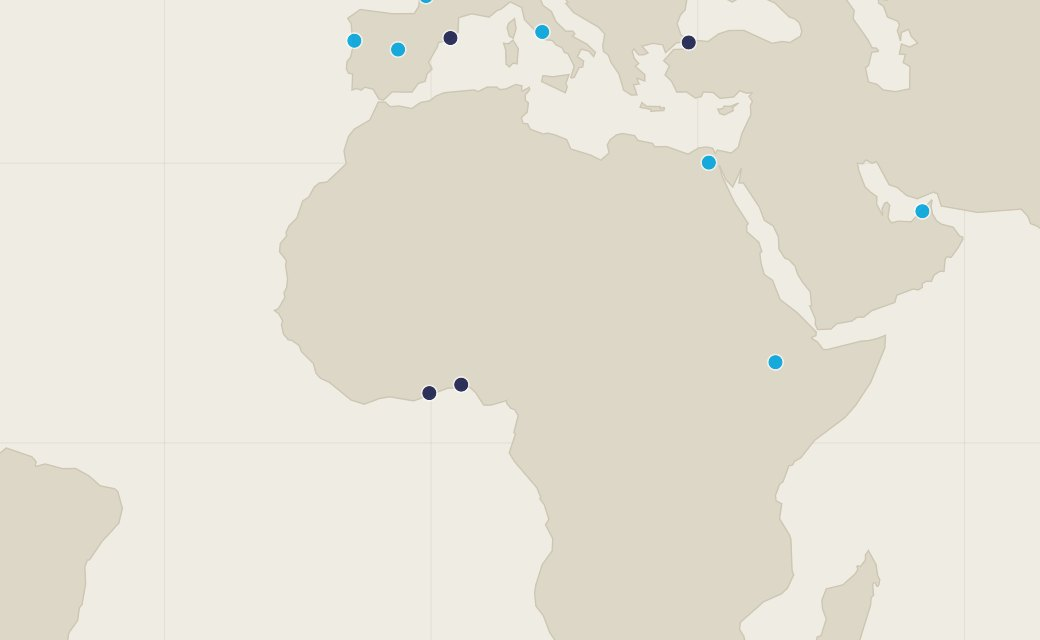
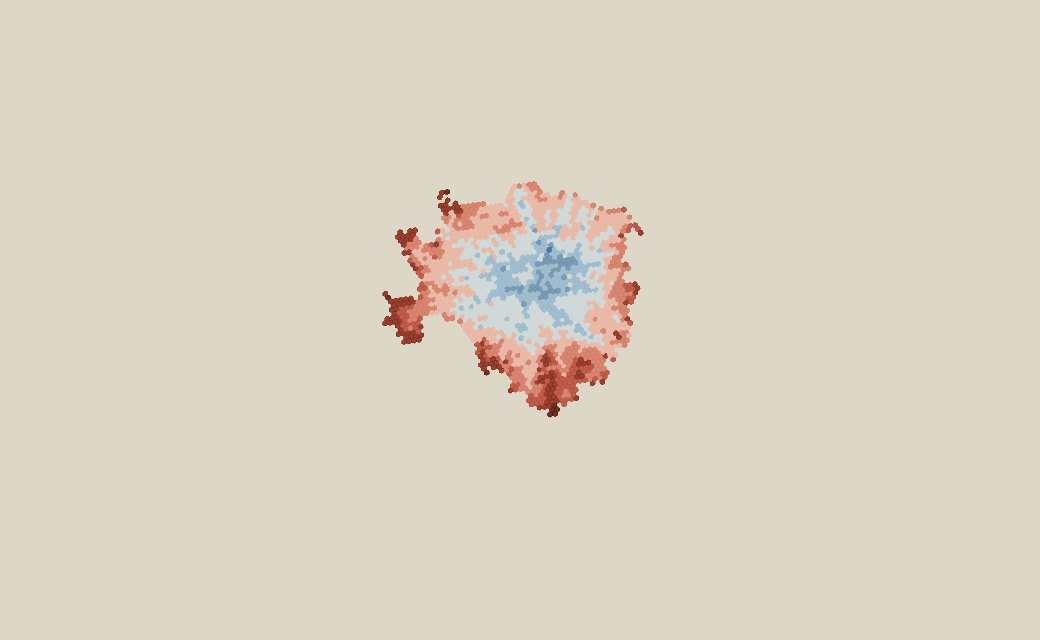
Cover the combined viewer in the suites; bring the docs up to date
smoke gains the Milan routes and a targeted combined-viewer block that
asserts provenance (the 7,637-cell union figure the seed cannot produce),
the honest P.O.V. mask count, four enabled layers, and the CityChrone
hourly layer rendering with its state in the URL. Card stills reshoot
from the new views — 15minCity from Milan, CityChrone from the combined
viewer's layer (with a clip shift to keep the core mask in frame).
CLAUDE.md, README.md and public/data/README.md now describe the shipped
state: Milan harmonised and verified by H3 index, the atlas catalogue
section, the hourly CityChrone contract, and the retired letter schema.

All three suites pass: test:data, smoke, smoke:published.

Claude-Session: https://claude.ai/code/session_01UVTyh7ByqiS6cEYYgVPMXa

diff --git a/CLAUDE.md b/CLAUDE.md
@@ -36,7 +36,9 @@ src/data/catalogue.js         parsing + normalising it
 src/data/sources.js           the provider: where data comes from
 src/data/adapters.js          published files → the shapes the UI consumes
 src/data/useAtlasData.js      React bindings (coverage, profile, city pages)
+src/data/useAtlasView.js      React bindings for the combined viewer
 src/workers/useCityMesh.js    published-first, seed fallback
+scripts/build-atlas.mjs       offline: joins platform files → atlas/ union meshes
 ```
 
 Anything the catalogue does not list falls back to generated seed data
@@ -48,37 +50,39 @@ caller changes.
 
 Adding a city is a file copy plus a catalogue entry. That is the whole design.
 
-## The grids — read this before building the unified viewer
+## The grids — read this before touching the combined viewer
 
 **Target state: one standard H3 grid per city, shared by every platform.**
 Harmonisation happens **offline**, in the export pipeline, not in the app.
-Milan is the first city being exported this way, across all four platforms.
 The app's job is to render whatever grid the catalogue describes — it does not
 reproject, resample or reconcile anything.
 
-The currently published data is the legacy state, and Rome shows what that
-costs. Measured cell by cell:
+**Milan is harmonised, and the combined viewer ships.** Verified by H3 index
+(not centroid rounding — `scripts/build-atlas.mjs` refuses any centroid more
+than 10 m off an H3 r9 cell centre): all four platforms sit on one grid, with
+nested masks — 15minCity covers 7,498 cells (the whole metro), Car Dependency
+and CityChrone an *identical* 1,741, P.O.V. a strict subset at 1,636.
+`build-atlas.mjs` joins them into `public/data/atlas/milan.geojson` (7,637
+union cells) and `/atlas/:cityId` repaints that one mesh per layer. Rerun
+`npm run build:atlas` after changing any Milan file — the union is derived,
+and `test:data` fails if it drifts from the per-platform files.
+
+Rome is the legacy state and shows what it costs. Measured cell by cell:
 
 | Platform | Rome cells | Grid |
 | --- | --- | --- |
 | P.O.V. | 8,089 | same H3 grid as CDI — 99.8% of its cells sit on a CDI cell |
 | Car Dependency | 11,409 | same grid, wider urban mask |
-| 15minCity | 11,879 | **a different tiling** — ~8% overlap, i.e. chance |
+| 15minCity (retired) | 11,879 | **a different tiling** — ~8% overlap, i.e. chance |
 
-So P.O.V. and CDI already share a grid: P.O.V. is a subset of CDI's cells, a
-tighter mask over identical hexagons. Those two can share one loaded mesh and
-switch by repainting. 15minCity's legacy meshes cannot — switching to them
-means swapping the mesh.
+**Both paths live in `src/pages/AtlasCityPage.jsx` from day one.** A city with
+an `atlas` catalogue entry loads one union mesh and repaints; a city without
+one swaps per-platform meshes. Do not assume one city implies one mesh; ask
+the catalogue.
 
-**What this means for the viewer.** Build it so that cities on the harmonised
-grid are the fast path — load one mesh, repaint per layer — and keep
-mesh-swapping as the fallback for legacy cities. Do not assume one city implies
-one mesh; ask the catalogue. Two cities will behave differently at the same
-time for a while, so the switcher has to handle both from day one rather than
-being retrofitted once Milan lands.
-
-A practical check when new data arrives: compare cell centroids between two
-platforms for the same city at 3 decimal places (~100 m). Above ~99% means one
+A practical check when new data arrives: map both platforms' cell centroids to
+H3 at the claimed resolution and compare the sets (`build-atlas.mjs` does this
+with a hard 10 m tolerance). Above ~99% overlap of the tighter mask means one
 grid; single digits means two.
 
 **The `cell` field is per-city and must stay honest.** `h3Resolution` is
@@ -102,9 +106,16 @@ and was wrong.
 - **The cartograms are population-scaled.** Cells sit in true positions; their
   *area* encodes population. Cell geometry therefore cannot be measured from
   the file and comes from the catalogue's `cell` field.
-- **15minCity's letter codes**: the legacy `script.php` contains two conflicting
-  letter→category tables. The live one is in `src/data/fifteen.js` (`d` is
-  Healthcare, not Supplies). Do not take a letter's meaning from that file.
+- **15minCity's letter codes are retired.** The harmonised exports key
+  measures with full words (`education_foot`, `proximity_time_bicycle`);
+  `src/data/fifteen.js` holds the live category list. The legacy `script.php`
+  contains two conflicting letter→category tables — if an old letter-keyed
+  file ever resurfaces, do not take a letter's meaning from that file.
+- **CityChrone's scores carry no verified unit conversion.** `v_score` is
+  described as km/h-like and labelled that way after the upstream site;
+  `s_score` is a weighted count of reachable people and is called a score,
+  never a headcount. Hexcover `coord` is `[lat, lon]` — the one published
+  file on that order.
 
 ## Traps that have already cost time
 
@@ -137,10 +148,13 @@ npm run smoke              # every route in a real browser
 npm run smoke:published    # stages a dataset, asserts it is read instead of seed
 ```
 
-`test:data` runs the real adapters over all 41 datasets and checks shares sum
-to 100, no CDI outside [−1, +1], every 15minCity category × mode present, and
-that Rome still reports the figures the copy quotes. Run it after any data
-change — it catches in seconds what the browser suites take minutes to reach.
+`test:data` runs the real adapters over every published dataset (all 24
+CityChrone hours included) and checks shares sum to 100, no CDI outside
+[−1, +1], every 15minCity category × mode present, that Rome still reports
+the figures the copy quotes, and that each `atlas/` union mesh reconciles —
+same counts, same shares, same weighted CDI — with the per-platform files it
+was built from. Run it after any data change — it catches in seconds what the
+browser suites take minutes to reach.
 
 Playwright is deliberately **not** a dependency; CI installs it on the fly.
 Locally: `PLAYWRIGHT_CHROMIUM_PATH=/opt/pw-browsers/chromium`.
@@ -161,6 +175,7 @@ avoids guessing rather than defaulting to masculine forms.
 
 ```bash
 npm run build:data -- --pov ../accessibility-pov --cdi ../CDI --fifteen ../15mincity
+npm run build:atlas        # union meshes + fifteen/citychrone catalogue entries
 npm run shoot:previews     # platform-card stills, from the running site
 ```
 
@@ -171,24 +186,21 @@ different owner.
 
 ## CityChrone
 
-The fourth platform, and the one with the least built. It has:
+The fourth platform, published for Milan and rendered **only through the
+combined viewer** — it has no `/platforms/citychrone/:cityId` page; its
+landing map routes city clicks to `/atlas/:cityId?layer=citychrone`.
 
-- **A paper** — Biazzo, Monechi & Loreto, *General scores for accessibility and
-  inequality measures in urban areas*, R. Soc. Open Sci. 6(8) 190979 (2019),
-  `doi:10.1098/rsos.190979`. It is the isochrone-based scoring method, so it is
-  tagged to this platform on the Research page.
-- **No published data.** `published: false`, no `previewCity`, no city page.
-  Its home-page card art is a still of the world coverage map because there is
-  no city view to shoot.
-- **Data in preparation**: a single city, isochrones on an H3 grid.
-
-When that lands it is the same path as any other platform — convert in
-`scripts/build-data.mjs`, add catalogue entries, flip `published: true`, set
-`previewCity`, and shoot a card still. Two things will be new: isochrones are a
-*travel-time surface* rather than a per-cell classification or a bounded index,
-so it needs its own adapter and its own legend; and if it ships on the standard
-H3 grid it can share a mesh with whatever else exists for that city, which
-makes it the natural first test of the shared-grid path.
+- **The paper** — Biazzo, Monechi & Loreto, *General scores for accessibility
+  and inequality measures in urban areas*, R. Soc. Open Sci. 6(8) 190979
+  (2019), `doi:10.1098/rsos.190979` — defines both scores and the isochrone
+  method; it is tagged to this platform on the Research page.
+- **The published form is hourly**: 24 hexcover FeatureCollections (per-cell
+  `v_score`/`s_score`) plus 24 `times*.npy` matrices (uint8 minutes, row =
+  origin cell). The catalogue's `hourly` entry describes them as `{hh}` path
+  templates; hourly values are joined onto the mesh as MapLibre feature-state
+  at runtime, never baked into a GeoJSON.
+- Its card still is shot from the combined viewer's CityChrone layer
+  (`scripts/shoot-previews.mjs`).
 
 ## Open, and needing the lab rather than more code
 - **The Italian is a first draft** and wants a native review.

diff --git a/public/data/README.md b/public/data/README.md
@@ -11,14 +11,14 @@ entry, not a code change.
 | `index.json`         | The **catalogue** — the one file that decides whether the Atlas draws measurements or seed data. |
 | `pov/`               | Accessibility P.O.V. — 18 cities, one GeoJSON each, plus `coverage.geojson`. Measured. |
 | `cardep/`            | Car Dependency Index — 22 city datasets (20 cities plus a Paris metro-area and a Rome Metro D scenario), plus `coverage.geojson`. Measured. |
-| `fifteen/`           | 15minCity — Rome, 20 measures per cell (10 service categories × foot/bike) plus their difference against the ideal-city scenario. Measured. |
+| `fifteen/`           | 15minCity — Milan on the standard H3 grid, 20 measures per cell (10 service categories × foot/bicycle). Measured. |
+| `citychrone/`        | CityChrone — Milan, 24 hourly `hexcoverNN.json` score files plus 24 `timesNN.npy` travel-time matrices. Measured. |
+| `atlas/`             | The combined viewer's union meshes — one GeoJSON per harmonised city, every platform's values on the same H3 cells. Derived offline by `scripts/build-atlas.mjs`. |
 | `world-land.geojson` | Natural Earth 110m land polygons, simplified to 2 dp. Draws the paper basemap so the Atlas needs no tile server. Public domain. |
 
-**CityChrone is not published yet.** It still renders seed data generated in
-the browser — deterministic and plausible, but not measurement (see
-`src/data/cities.js` and `src/data/mesh.js`). The UI labels it as illustrative
-rather than presenting it as measured. 15minCity is published for Rome only;
-its other cities live in the legacy site's database.
+15minCity's legacy Rome export (letter-keyed, non-H3) has been retired; its
+other cities live in the legacy site's database until they are re-exported on
+the standard grid.
 
 Regenerate everything under `pov/` and `cardep/` from the upstream repositories
 with:
@@ -27,7 +27,14 @@ with:
 npm run build:data -- --pov ../accessibility-pov --cdi ../CDI --fifteen ../15mincity
 ```
 
-It prints the counts `src/data/home.js` and `src/data/platforms.js` quote, so
+Rebuild the union meshes and the fifteen/citychrone catalogue entries from the
+files already in this directory with:
+
+```bash
+npm run build:atlas
+```
+
+Both print the counts `src/data/home.js` and `src/data/platforms.js` quote, so
 those stay in step with the data rather than drifting from it.
 
 ## The catalogue
@@ -60,6 +67,24 @@ site works on a fresh checkout and picks up real outputs one city at a time.
 
 Platform keys are the `id` values in `src/data/platforms.js`: `fifteen`,
 `citychrone`, `cardep`, `pov`.
+
+Two additions beyond the per-platform lists:
+
+- **Hourly datasets** (CityChrone): a city carries `"hourly"` instead of a
+  single `dataset` — `{ "hours": 24, "cells": 1741, "hexcover":
+  "citychrone/milan/hexcover{hh}.json", "times":
+  "citychrone/milan/times{hh}.npy" }`, with `{hh}` standing for the
+  zero-padded hour. Each hexcover is a FeatureCollection with per-cell
+  `new_id`, `pop`, `v_score`, `s_score` (and `coord` as `[lat, lon]` — the one
+  upstream file on that order); each `times` file is a NumPy uint8 matrix of
+  minutes, `cells × cells`, row = origin `new_id`.
+- **The `atlas` section** (top level, beside `platforms`) lists cities with a
+  harmonised union mesh for the combined viewer, each with a `dataset`
+  pointing under `atlas/` and a `layers` array naming the platforms it
+  carries. A city absent here still gets a combined view — the viewer swaps
+  per-platform meshes instead of repainting one. Union meshes are **derived**:
+  regenerate them with `npm run build:atlas` after changing any Milan file,
+  and `npm run test:data` reconciles them against the per-platform files.
 
 - **`center` is `[lon, lat]`**, matching GeoJSON and MapLibre. The upstream CDI
   `index.json` uses `[lat, lon]` — flipping it is the exporter's job.
@@ -139,29 +164,26 @@ Values: `o_score_pt`, `o_score_car`, `CDI` (−1 PT-favoured → +1 car-dependen
 
 ### 15minCity
 
-The legacy site stores one `hexes.geojson` per city, carrying 20 accessibility
-metrics — 10 service categories × 2 travel modes, in minutes:
+The harmonised exports (Milan onward) key each measure as
+`<category>_<mode>`, in minutes, with full words: categories
+`proximity_time` (the average across all services), `outdoor`, `education`,
+`supplies`, `restaurant`, `transport`, `culture`, `physical`, `services`,
+`healthcare`; modes `foot` and `bicycle`. Each cell also carries
+`centroid_lon`/`centroid_lat`, `radius`, `population`, and `internal_id` —
+the cell's H3 index as a decimal integer (resolution 9).
 
-| Key | Category | | Suffix | Mode |
-| --- | -------- | - | ------ | ---- |
-| `a` | average accessibility | | `_f` | foot |
-| `b` | cultural activities | | `_b` | bike |
-| `c` | learning | | | |
-| `d` | healthcare | | | |
-| `e` | outdoor activities | | | |
-| `f` | physical exercise | | | |
-| `g` | eating | | | |
-| `h` | services | | | |
-| `i` | supplies | | | |
-| `l` | moving | | | |
+The legacy letter scheme (`a_f`, with `d_*` ideal-city differences) and its
+two conflicting letter→category tables are retired with the Rome export; no
+published file uses it and `src/data/fifteen.js` no longer knows the letters.
 
-A matching `d_<key>_<mode>` field holds the precomputed difference against the
-"ideal city" scenario.
+### CityChrone
 
-> **Careful with the legend.** The legacy `script.php` contains two conflicting
-> letter→category mappings; the stale one assigns different categories to the
-> same letters (`d` is Supplies there, Healthcare in the live one). The table
-> above matches the live dropdowns.
+Published as hourly file pairs rather than one dataset — see the `hourly`
+catalogue entry above. `v_score` is a km/h-like velocity score, `s_score` a
+sociality score (a weighted count of reachable people — a score, not a
+headcount); both are defined in the platform paper (doi:10.1098/rsos.190979).
+The `times` matrices power click-to-draw isochrones in the combined viewer;
+values are capped at 180 minutes upstream.
 
 ## Shapefiles
 

diff --git a/README.md b/README.md
@@ -7,10 +7,14 @@ It brings four open research platforms under one identity:
 
 | Platform                       | Measures                                                  | Published here |
 | ------------------------------ | --------------------------------------------------------- | -------------- |
-| **15min-City**                 | Proximity — travel time to ten categories of service       | Rome |
-| **CityChrone++**               | Opportunity — what public transport can reach              | — |
+| **15min-City**                 | Proximity — travel time to ten categories of service       | Milan |
+| **CityChrone++**               | Opportunity — hourly transit scores and isochrones         | Milan |
 | **Car Dependency Index**       | Comparison — opportunity by car against by transit         | 22 datasets |
 | **Urban Accessibility P.O.V.** | Synthesis — Proximity × Opportunity, four zones of access  | 18 cities |
+
+Milan is published on one shared H3 grid across all four platforms, and the
+**combined viewer** (`/atlas/milan`) reads them as switchable layers of a
+single mesh.
 
 "Published here" counts what is in `public/data/`, not the coverage of the
 upstream research platforms.
@@ -26,18 +30,15 @@ npm run preview
 
 ## Status
 
-**Three of the four platforms render measurements.** 41 city datasets —
-156,627 cells — are published under `public/data/` and validated on every
-push. CityChrone is still drawing generated stand-ins, and the UI labels it as
-illustrative rather than presenting it as measured. `src/data/cities.js` and
-`src/data/mesh.js` say so at the top; [`public/data/README.md`](public/data/README.md)
-documents the catalogue that decides which is which.
+**All four platforms render measurements.** 42 city datasets — 153,987 cells —
+are published under `public/data/` and validated on every push. Cities the
+catalogue does not list still fall back to generated stand-ins labelled as
+illustrative; [`public/data/README.md`](public/data/README.md) documents the
+catalogue that decides which is which.
 
 Outstanding before launch:
 
 - **The Italian is a first draft** and needs a native review (`src/i18n/it.js`).
-- **CityChrone has no published data** and no paper on the Research page; both
-  are marked as pending rather than filled with a guess.
 - **Some editorial figures need the lab's confirmation** — the team headcount,
   the contact addresses, and the dates on the home page's news items.
 - **The licence below needs confirming** with the lab.
@@ -49,6 +50,7 @@ Outstanding before launch:
 | `/`                        | Home — hero, metrics, coverage map, four platforms, table, quote, side projects |
 | `/platforms/:slug`         | Platform landing — full-bleed world map, welcome card, legend, city search |
 | `/platforms/:slug/:cityId` | City detail — P.O.V. zones, Car Dependency bands, or 15minCity's category/mode selectors |
+| `/atlas/:cityId`           | Combined viewer — one mesh, all four platforms as switchable layers; state in the query string |
 | `/research`                | Papers, datasets, citation |
 | `/blog`, `/blog/:slug`     | Long-form writing |
 | `/work-with-us`            | Open positions, PhD / thesis / internship routes |
